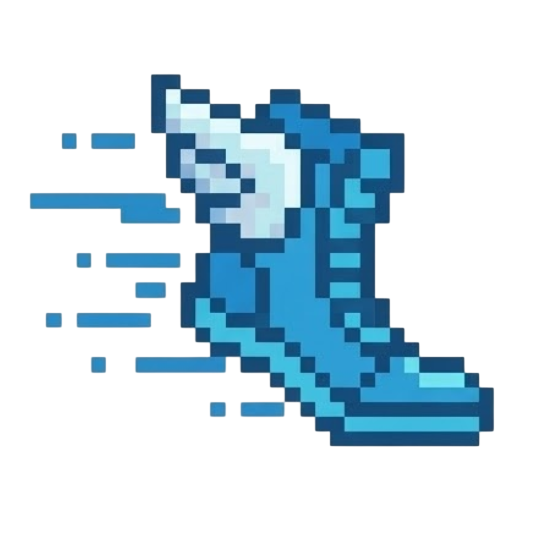
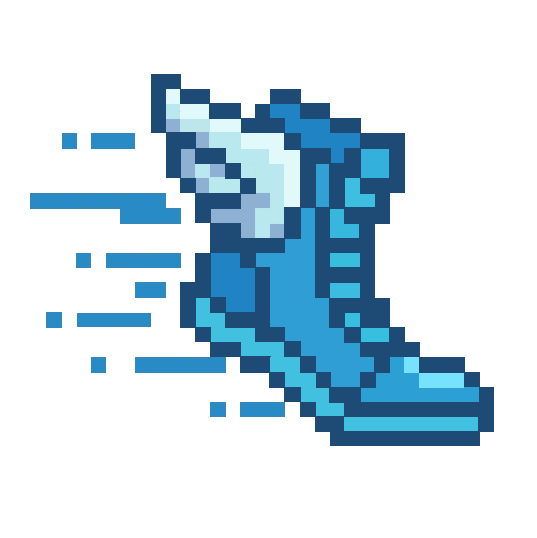
New PowerUp assets + frame on Power Up timer UI

diff --git a/AlphaEngine2.5D/Source/Game/Scenes/FPSScene/UI/PlayerHUD.cpp b/AlphaEngine2.5D/Source/Game/Scenes/FPSScene/UI/PlayerHUD.cpp
@@ -43,6 +43,7 @@ namespace Game
     static Engine::Color s_bookPopupPanelColor = Engine::Color(0.05f, 0.05f, 0.05f, 0.92f);
     static std::string s_cardPanelTexturePath      = "Assets/UI/UI Kit/Panel/panel-009.png";
     static Engine::Color s_cardPanelColor      = Engine::Color(0.05f, 0.05f, 0.05f, 0.88f);
+    static std::string s_powerUpPanelTexturePath   = "Assets/UI/UI Kit/Panel/panel-009.png";
 
     PlayerHUD::~PlayerHUD()
     {
@@ -584,35 +585,72 @@ namespace Game
         m_powerUpTextures[2] = Engine::AssetManager::GetTexture("Assets/Shield.png"); // Shield
         m_powerUpTextures[3] = Engine::AssetManager::GetTexture("Assets/Invis.png"); // Invisibility
 
+        Engine::Texture2D* powerUpPanelTexture = Engine::AssetManager::GetTexture(s_powerUpPanelTexturePath.c_str());
+        constexpr float powerUpPanelScale = 1.15f; // +15% panel size
+
+        const float panelWidth = (240.0f * powerUpPanelScale) + 100.0f; 
+        const float panelHeight = (56.0f * powerUpPanelScale) + 25.0f;  // +50 total on Y axis
+
+        const int slotCount = 4;
+        const float slotWidth = 72.0f;
+        const float slotHeight = 70.0f;
+        const float sidePadding = 10.0f;
+        const float yPos = 6.0f;
+        const float spacing = (panelWidth - (2.0f * sidePadding) - slotWidth) / (slotCount - 1);
+
         m_powerUpPanel = m_canvas->CreateChild<UI::Panel>();
         m_powerUpPanel->name = "PowerUpPanel";
         m_powerUpPanel->SetAnchors({ 1.0f, 1.0f }, { 1.0f, 1.0f });
         m_powerUpPanel->SetPivot({ 1.0f, 1.0f });
         m_powerUpPanel->SetAnchoredPosition({ -20.0f, -110.0f });
-        m_powerUpPanel->SetSizeDelta({ 240.0f, 56.0f });
+        m_powerUpPanel->SetSizeDelta({ panelWidth, panelHeight });
         m_powerUpPanel->SetBackgroundColor(Engine::Color(0.05f, 0.05f, 0.05f, 0.65f));
+        if (powerUpPanelTexture)
+        {
+            m_powerUpPanel->SetBackgroundSprite(powerUpPanelTexture);
+            if (auto* bg = m_powerUpPanel->GetBackground())
+            {
+                bg->SetImageType(UI::ImageType::Sliced);
+                bg->SetPixelsPerUnitMultiplier(1.0f);
+            }
+        }
 
-        for (int i = 0; i < 4; ++i)
+        for (int i = 0; i < slotCount; ++i)
         {
             auto* slot = m_powerUpPanel->CreateChild<UI::Panel>();
             slot->SetAnchors({ 0.0f, 0.0f }, { 0.0f, 0.0f });
             slot->SetPivot({ 0.0f, 0.0f });
-            slot->SetAnchoredPosition({ 8.0f + i * 58.0f, 6.0f });
-            slot->SetSizeDelta({ 52.0f, 44.0f });
+            slot->SetAnchoredPosition({ sidePadding + spacing * i, yPos });
+            slot->SetSizeDelta({ slotWidth, slotHeight });
             slot->SetBackgroundColor(Engine::Color(0.12f, 0.12f, 0.12f, 0.9f));
+            if (powerUpPanelTexture)
+            {
+                slot->SetBackgroundSprite(powerUpPanelTexture);
+                if (auto* bg = slot->GetBackground())
+                {
+                    bg->SetImageType(UI::ImageType::Sliced);
+                    bg->SetPixelsPerUnitMultiplier(1.0f);
+                }
+            }
 
             m_powerUpIcons[i] = slot->CreateChild<UI::Image>();
             m_powerUpIcons[i]->SetAnchors({ 0.0f, 0.0f }, { 0.0f, 0.0f });
             m_powerUpIcons[i]->SetPivot({ 0.0f, 0.0f });
-            m_powerUpIcons[i]->SetAnchoredPosition({ 2.0f, 12.0f });
-            m_powerUpIcons[i]->SetSizeDelta({ 40.0f, 30.0f });
+
+            const float iconWidth = 50.0f;
+            const float iconHeight = 50.0f;
+            const float iconX = (slotWidth - iconWidth) * 0.5f;
+            const float iconY = (slotHeight - iconHeight) * 0.75f;
+
+            m_powerUpIcons[i]->SetAnchoredPosition({ iconX, iconY });
+            m_powerUpIcons[i]->SetSizeDelta({ iconWidth, iconHeight });
             m_powerUpIcons[i]->SetTexture(m_powerUpTextures[i]);
             m_powerUpIcons[i]->SetColor(Engine::Color(1, 1, 1, 0.25f)); // inactive dim
 
             m_powerUpTimers[i] = slot->CreateChild<UI::Text>();
             m_powerUpTimers[i]->SetAnchors({ 0.0f, 0.0f }, { 1.0f, 0.0f });
             m_powerUpTimers[i]->SetPivot({ 0.5f, 0.0f });
-            m_powerUpTimers[i]->SetAnchoredPosition({ 0.0f, 0.0f });
+            m_powerUpTimers[i]->SetAnchoredPosition({ 0.0f, 8.0f }); // moved up from 0.0f
             m_powerUpTimers[i]->SetSizeDelta({ 0.0f, 12.0f });
             m_powerUpTimers[i]->SetText("--");
             m_powerUpTimers[i]->SetFontSize(0.75f);
@@ -1567,4 +1605,4 @@ namespace Game
 
 
 
-} // namespace Game} // namespace Game
+} // namespace Game

diff --git a/AlphaEngine2.5D/Source/Game/NPC/NPC.cpp b/AlphaEngine2.5D/Source/Game/NPC/NPC.cpp
@@ -137,7 +137,7 @@ namespace Game
         bullyCooldown -= dt;
 
         // start chase when player walks past (enters range) and bully is not cooling down
-        if (PlayerInRange() && bullyCooldown <= 0.0f && activeTimer <= 0.0f)
+        if (PlayerInRange() && bullyCooldown <= 0.0f && activeTimer <= 0.0f && !Player::isInvisible)
         {
             activeTimer = bullyChaseTime;   // chasing window
             repathTimer = 0.0f;             // force immediate repath
